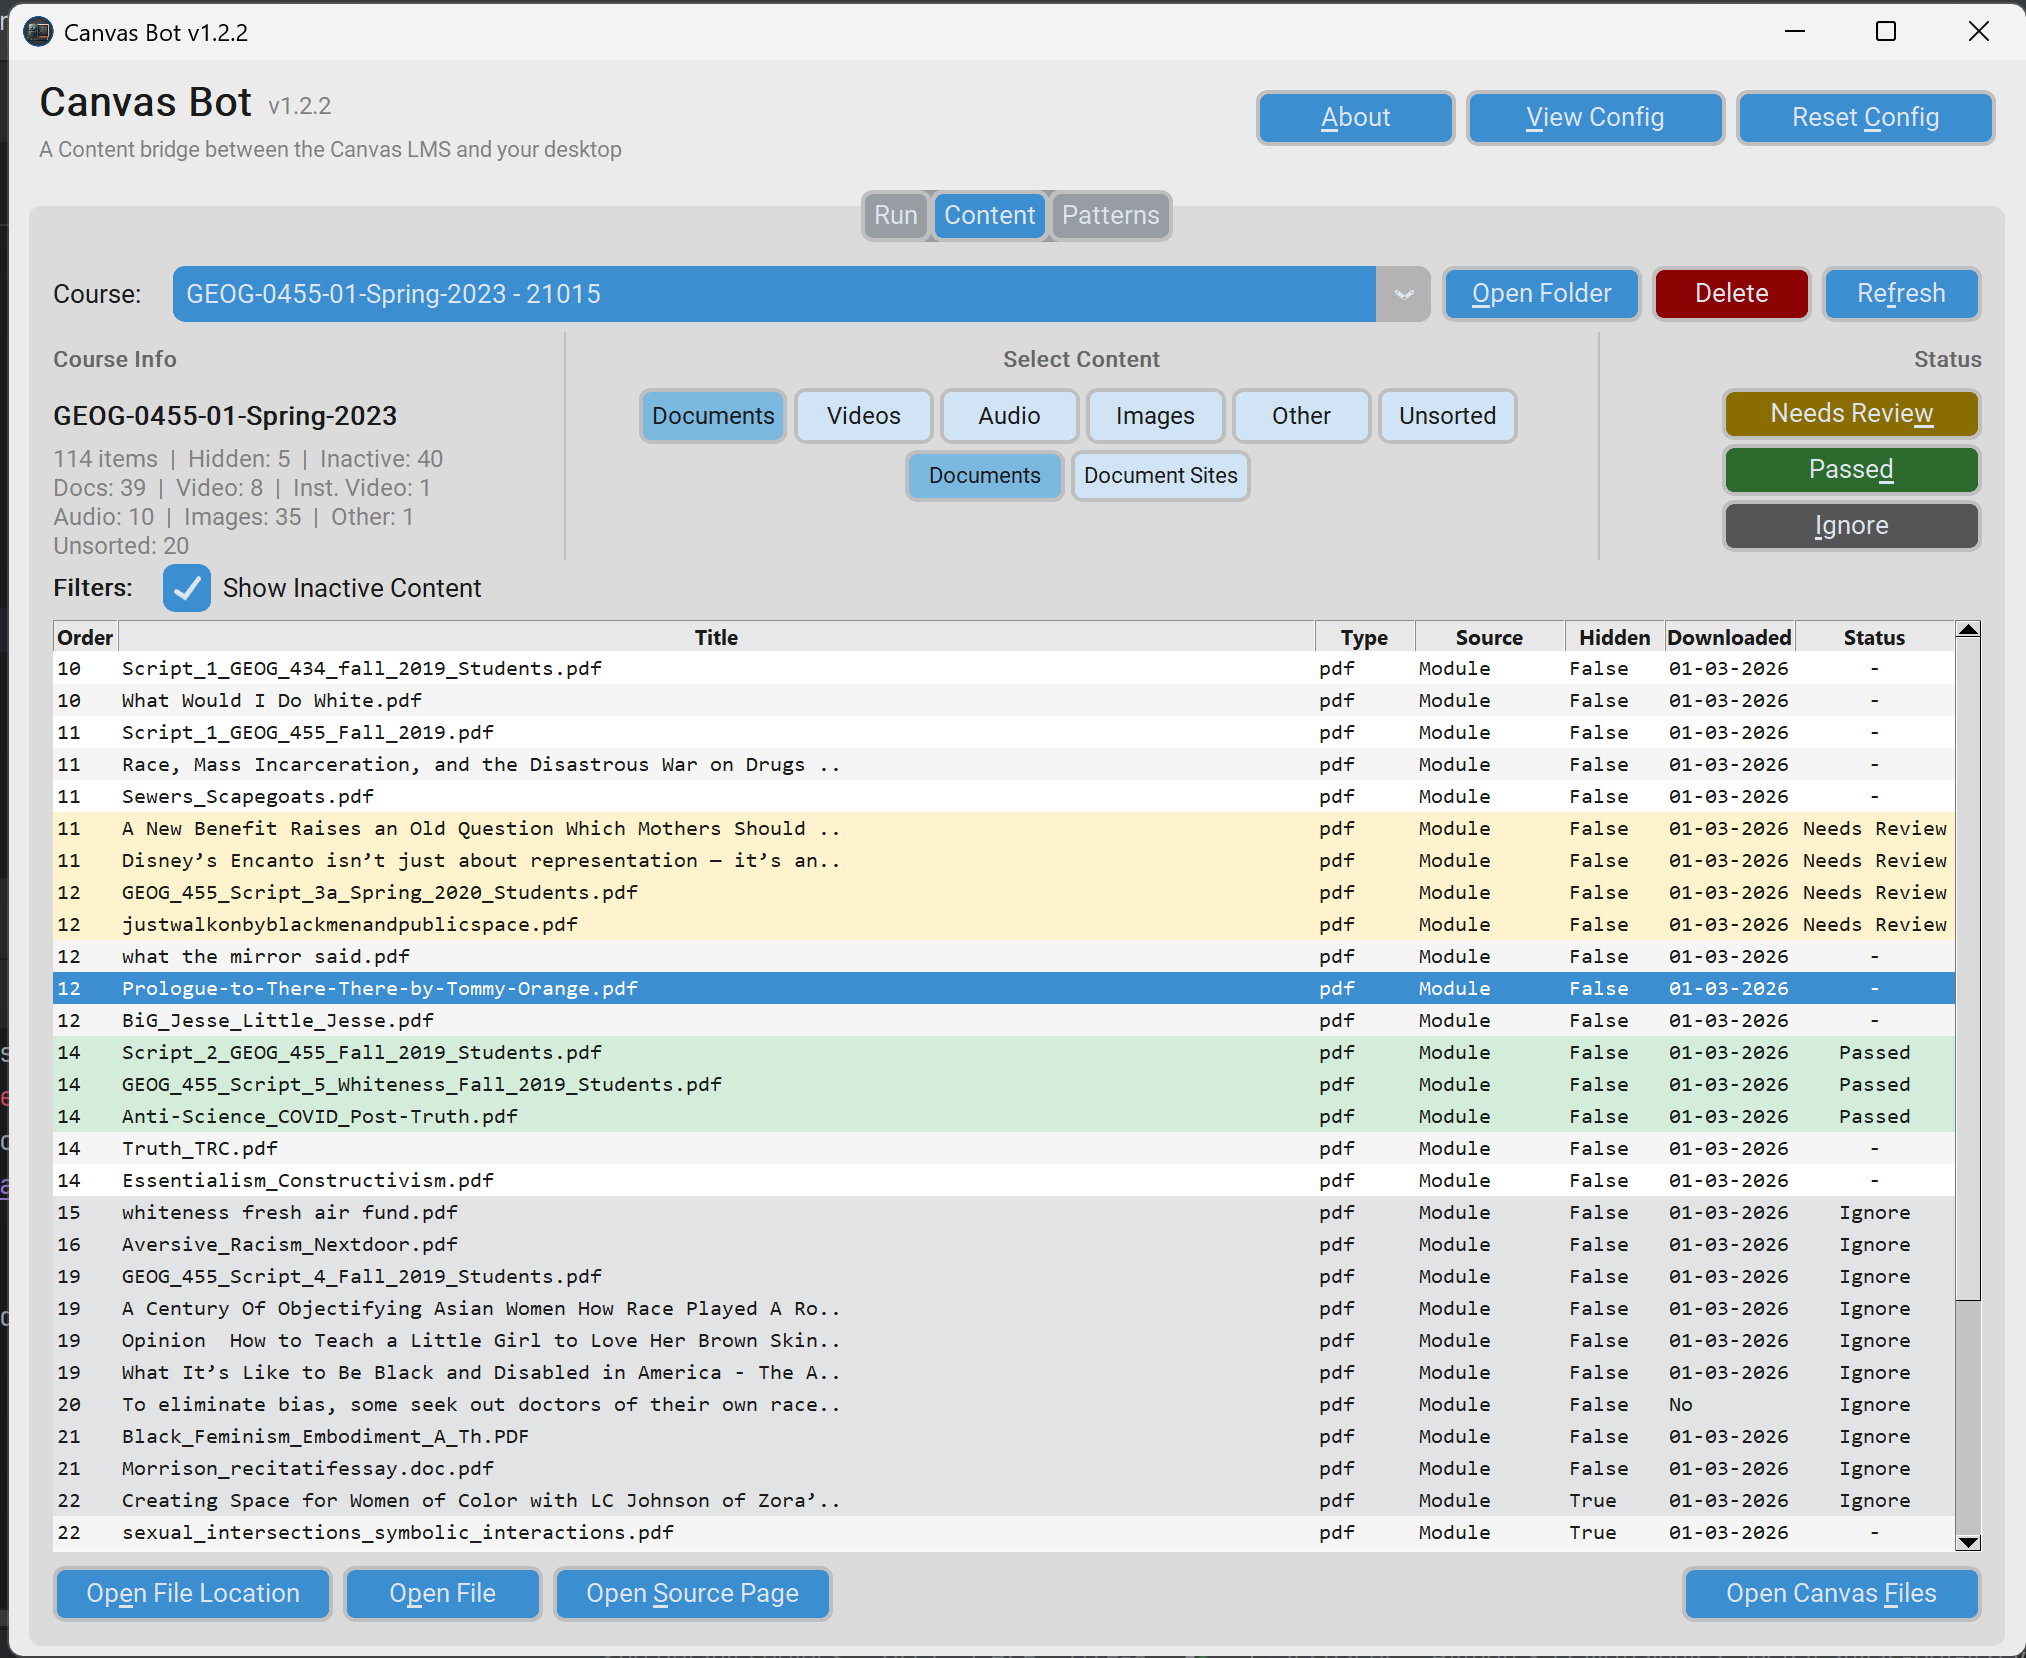
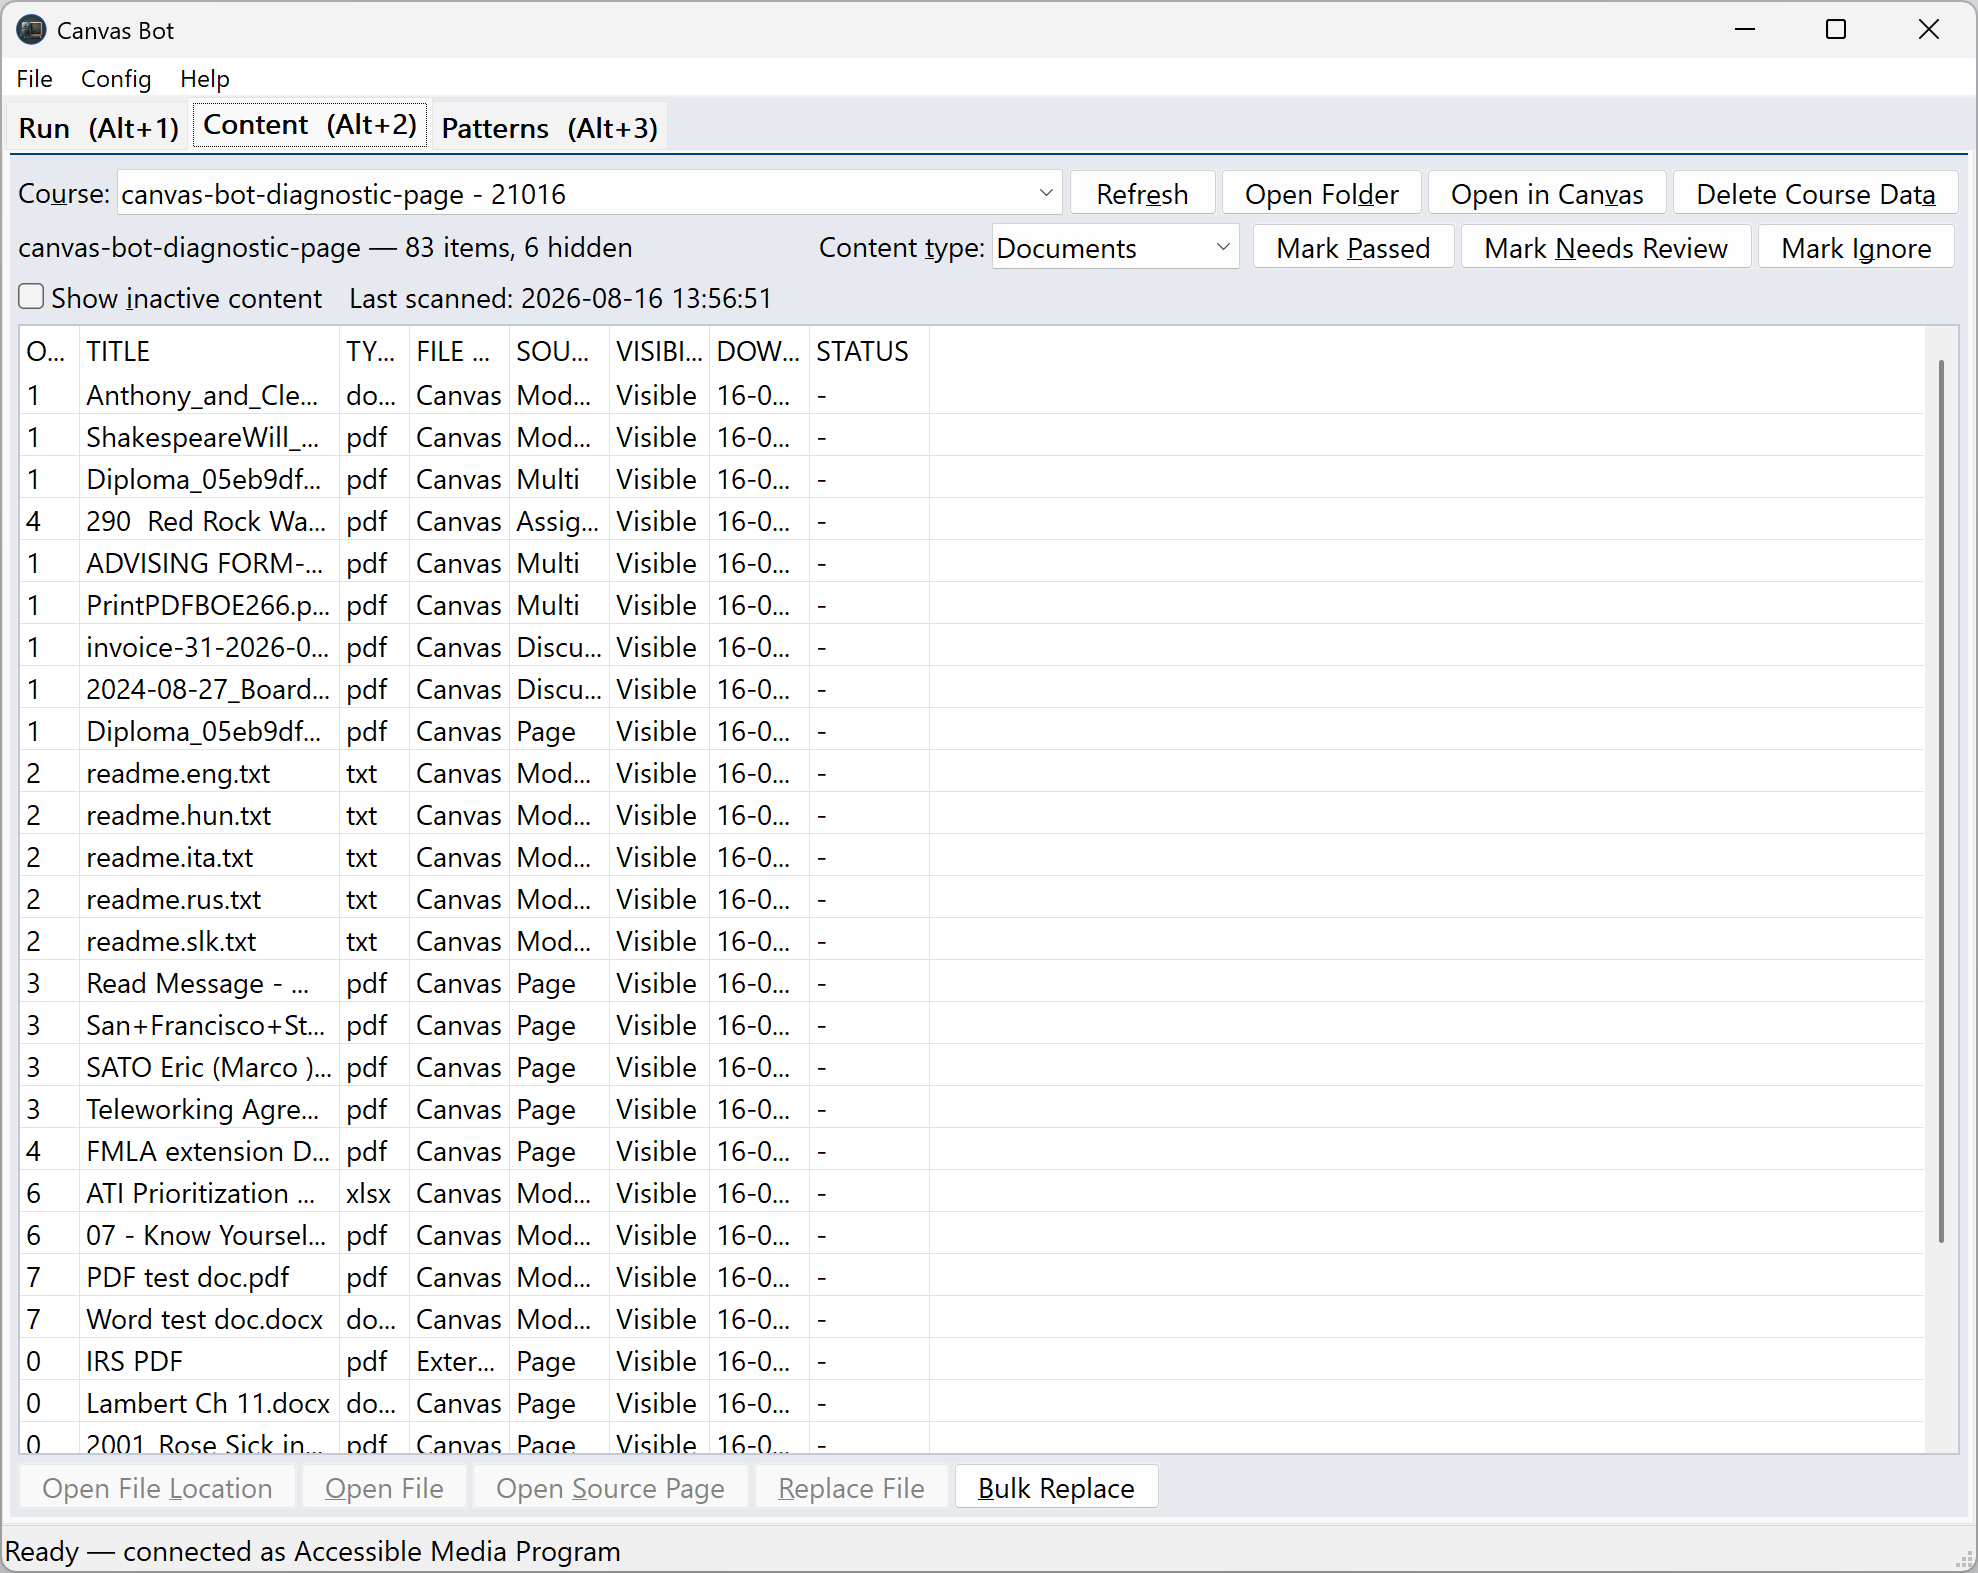
docs: regenerate README screenshots from the wx GUI + add automation tool
tools/screenshot_readme.py launches the real MainFrame with in-memory demo settings (user settings never touched), walks the three tabs on a timer, and captures DWM extended-frame bounds over docs/images. Handles per-monitor DPI, clamps to the work area, and places a neutral backdrop behind the window so rounded-corner slop stays grey. The three README screenshots now show the wx GUI (previously the legacy Tk interface).

Claude-Session: https://claude.ai/code/session_01Y83uS81fVFXi9epdWMU6VK

diff --git a/tools/screenshot_readme.py b/tools/screenshot_readme.py
@@ -1,0 +1,149 @@
+"""Regenerate the README's wx GUI screenshots automatically.
+
+Launches the real MainFrame, stages presentable demo values, walks the three
+tabs on a timer, and captures the window over docs/images/*.png.
+
+Usage (from the repo root):
+
+    python tools/screenshot_readme.py --demo-folder "C:\\path\\to\\scanned courses"
+
+--demo-folder is a folder containing at least one scanned course folder
+(with .manifest/content JSON) — it is what the Content tab displays. When
+given, settings are patched IN MEMORY only: the user's saved GUI settings
+are never modified. Without it, the app's real settings are used as-is.
+
+Requires a display; the window must stay unoccluded during the ~11 seconds
+of capture. A neutral full-screen backdrop is placed behind the app so
+rounded-corner/DWM edge slop lands on plain grey instead of the desktop.
+"""
+import argparse
+import ctypes
+import os
+import sys
+
+REPO = os.path.dirname(os.path.dirname(os.path.abspath(__file__)))
+IMAGES = os.path.join(REPO, "docs", "images")
+
+os.chdir(REPO)
+sys.path.insert(0, REPO)
+
+parser = argparse.ArgumentParser()
+parser.add_argument("--demo-folder", default=None,
+                    help="Output folder shown in the Content tab (patched in memory)")
+parser.add_argument("--course-id", default="12345",
+                    help="Course ID displayed on the Run tab")
+parser.add_argument("--folder-display", default=r"C:\Canvas Downloads",
+                    help="Cosmetic text for the Run tab's output-folder field")
+args = parser.parse_args()
+
+if args.demo_folder:
+    from gui.core import settings as settings_mod
+
+    _orig_load = settings_mod.load
+
+    def _demo_load():
+        s = dict(_orig_load() or {})
+        s.update({"course_id": args.course_id, "course_list": "",
+                  "output_folder": args.demo_folder})
+        return s
+
+    settings_mod.load = _demo_load
+    settings_mod.save = lambda *a, **k: None  # demo values must never persist
+
+# Per-monitor DPI awareness BEFORE wx initializes: without it, wx reports
+# logical coordinates while ScreenDC blits physical pixels, so the capture
+# lands offset and picks up whatever is behind the window.
+try:
+    ctypes.windll.shcore.SetProcessDpiAwareness(2)
+except Exception:
+    pass
+
+import wx  # noqa: E402
+
+from gui.wx.app import MainFrame  # noqa: E402
+
+app = wx.App(False)
+
+backdrop = wx.Frame(None, style=wx.BORDER_NONE)
+backdrop.SetBackgroundColour(wx.Colour(226, 228, 232))
+backdrop.ShowFullScreen(True)
+
+frame = MainFrame()
+# Design size scaled to the monitor's DPI so nothing is clipped, clamped to
+# the work area so the window can't extend under the taskbar.
+size = frame.FromDIP(wx.Size(1000, 860))
+area = wx.Display(0).GetClientArea()
+frame.SetSize(wx.Size(min(size.width, area.width - 160),
+                      min(size.height, area.height - 120)))
+frame.SetPosition((area.x + 80, area.y + 50))
+frame.Show()
+frame.Raise()
+frame.run_panel.output_folder.ChangeValue(args.folder_display)
+
+_real_stdout = sys.__stdout__  # GUI log redirects sys.stdout; report around it
+shots = []
+
+
+def _visible_bounds():
+    """True on-screen window rect via DWM extended frame bounds.
+
+    wx's GetScreenRect includes the invisible resize/shadow border, which
+    blits slivers of whatever is behind the window into the capture.
+    """
+    import ctypes.wintypes as wt
+    r = wt.RECT()
+    DWMWA_EXTENDED_FRAME_BOUNDS = 9
+    res = ctypes.windll.dwmapi.DwmGetWindowAttribute(
+        frame.GetHandle(), DWMWA_EXTENDED_FRAME_BOUNDS,
+        ctypes.byref(r), ctypes.sizeof(r))
+    if res == 0:
+        return r.left, r.top, r.right - r.left, r.bottom - r.top
+    rect = frame.GetScreenRect()
+    return rect.x, rect.y, rect.width, rect.height
+
+
+def capture(filename):
+    frame.Raise()
+    wx.SafeYield()
+    x, y, w, h = _visible_bounds()
+    dc = wx.ScreenDC()
+    bmp = wx.Bitmap(w, h)
+    mem = wx.MemoryDC(bmp)
+    mem.Blit(0, 0, w, h, dc, x, y)
+    mem.SelectObject(wx.NullBitmap)
+    ok = bmp.SaveFile(os.path.join(IMAGES, filename), wx.BITMAP_TYPE_PNG)
+    shots.append((filename, ok, w, h))
+
+
+def step_run():
+    frame.notebook.SetSelection(0)
+    wx.CallLater(800, lambda: capture("screenshot-of-the-run-view.png"))
+
+
+def step_content():
+    frame.notebook.SetSelection(1)
+    if frame.content_panel is not None:
+        frame.content_panel.refresh_courses()
+    # permission check is async — give it time before the shot
+    wx.CallLater(2600, lambda: capture("screenshot-of-the-content-view.png"))
+
+
+def step_patterns():
+    frame.notebook.SetSelection(2)
+    wx.CallLater(800, lambda: capture("screenshot-of-the-patterns-view.png"))
+
+
+def finish():
+    for name, ok, w, h in shots:
+        print(f"{name}: {'saved' if ok else 'SAVE FAILED'} ({w}x{h})",
+              file=_real_stdout)
+    frame.Close(force=True)
+    backdrop.Close(force=True)  # keeping it open would hold MainLoop forever
+
+
+wx.CallLater(4000, step_run)        # let startup token validation settle
+wx.CallLater(5500, step_content)
+wx.CallLater(8800, step_patterns)
+wx.CallLater(10300, finish)
+
+app.MainLoop()
